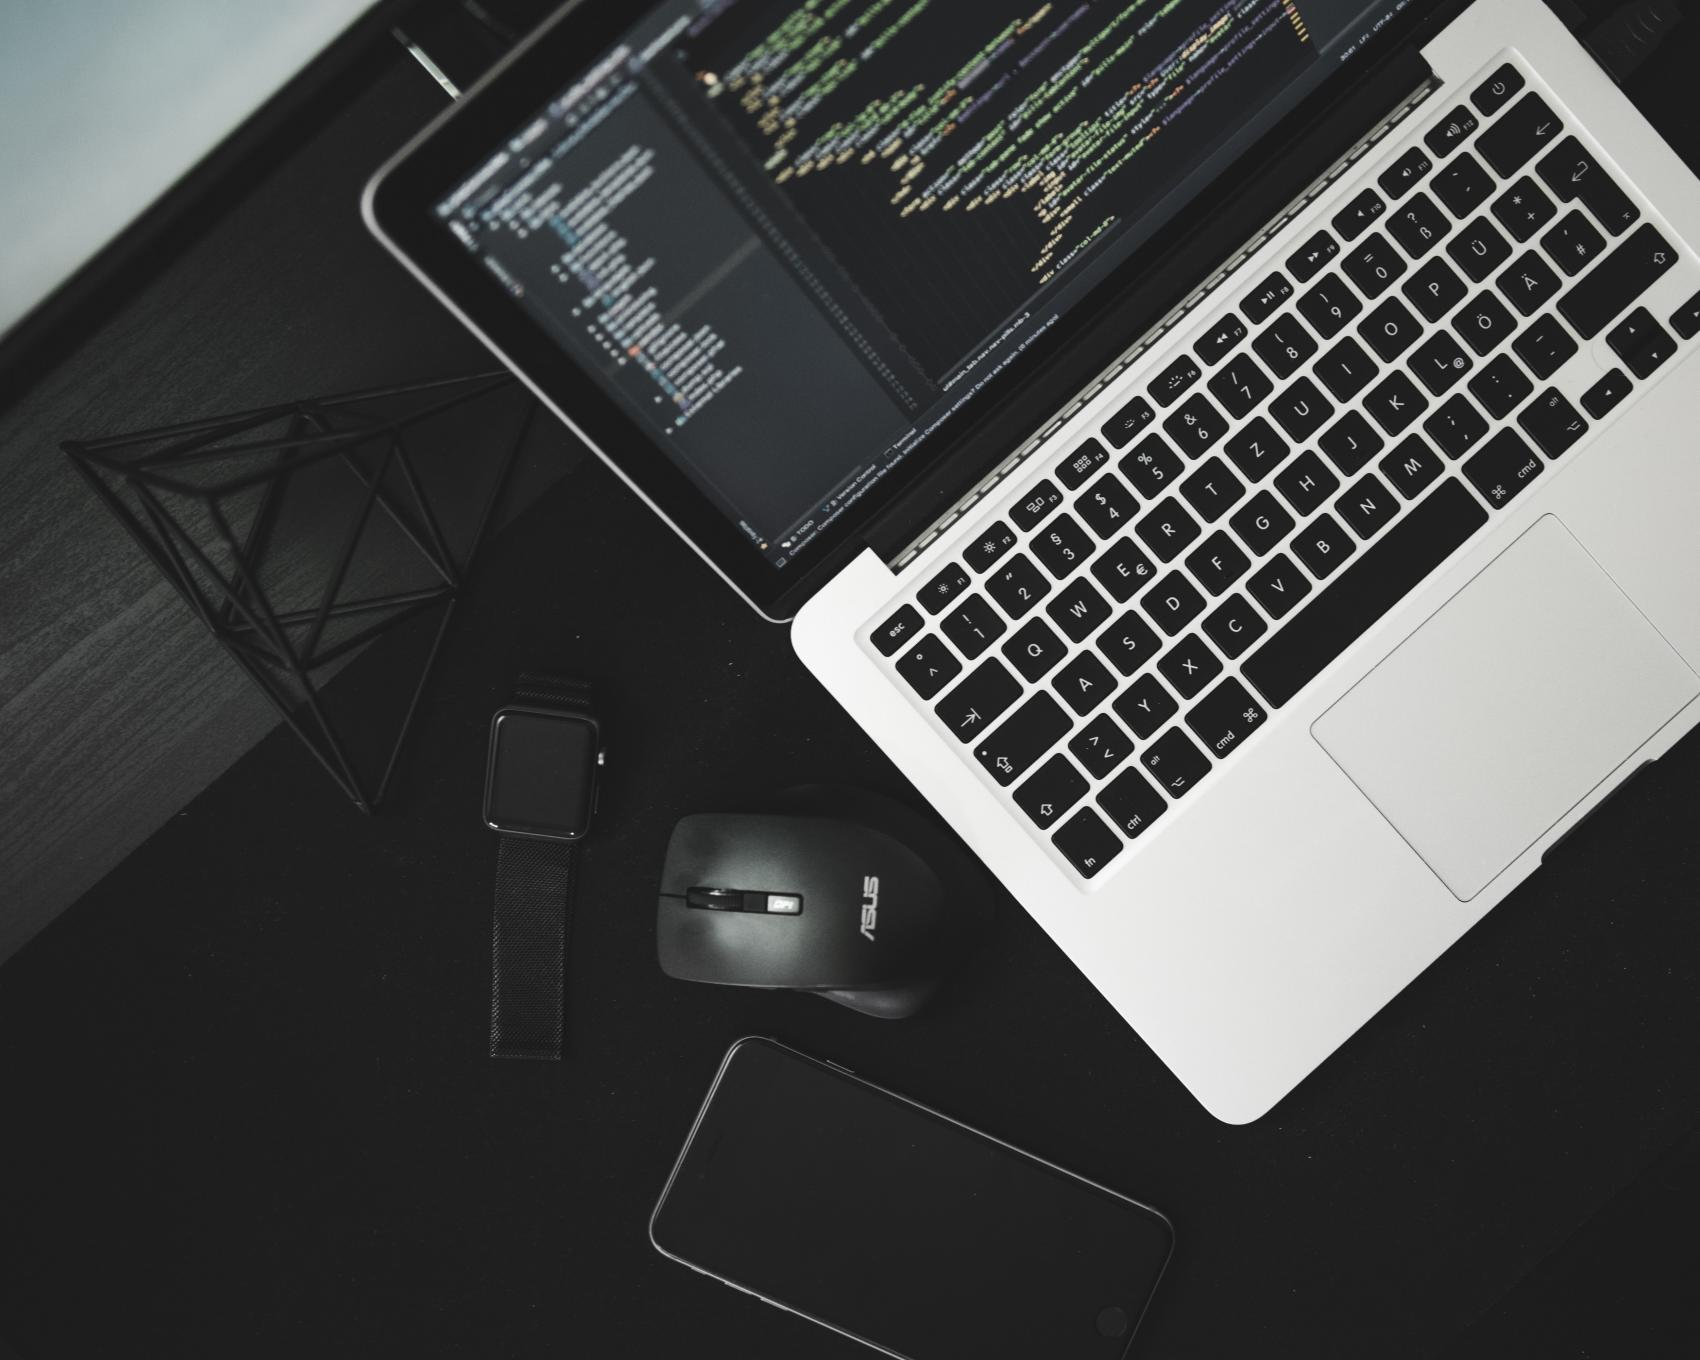
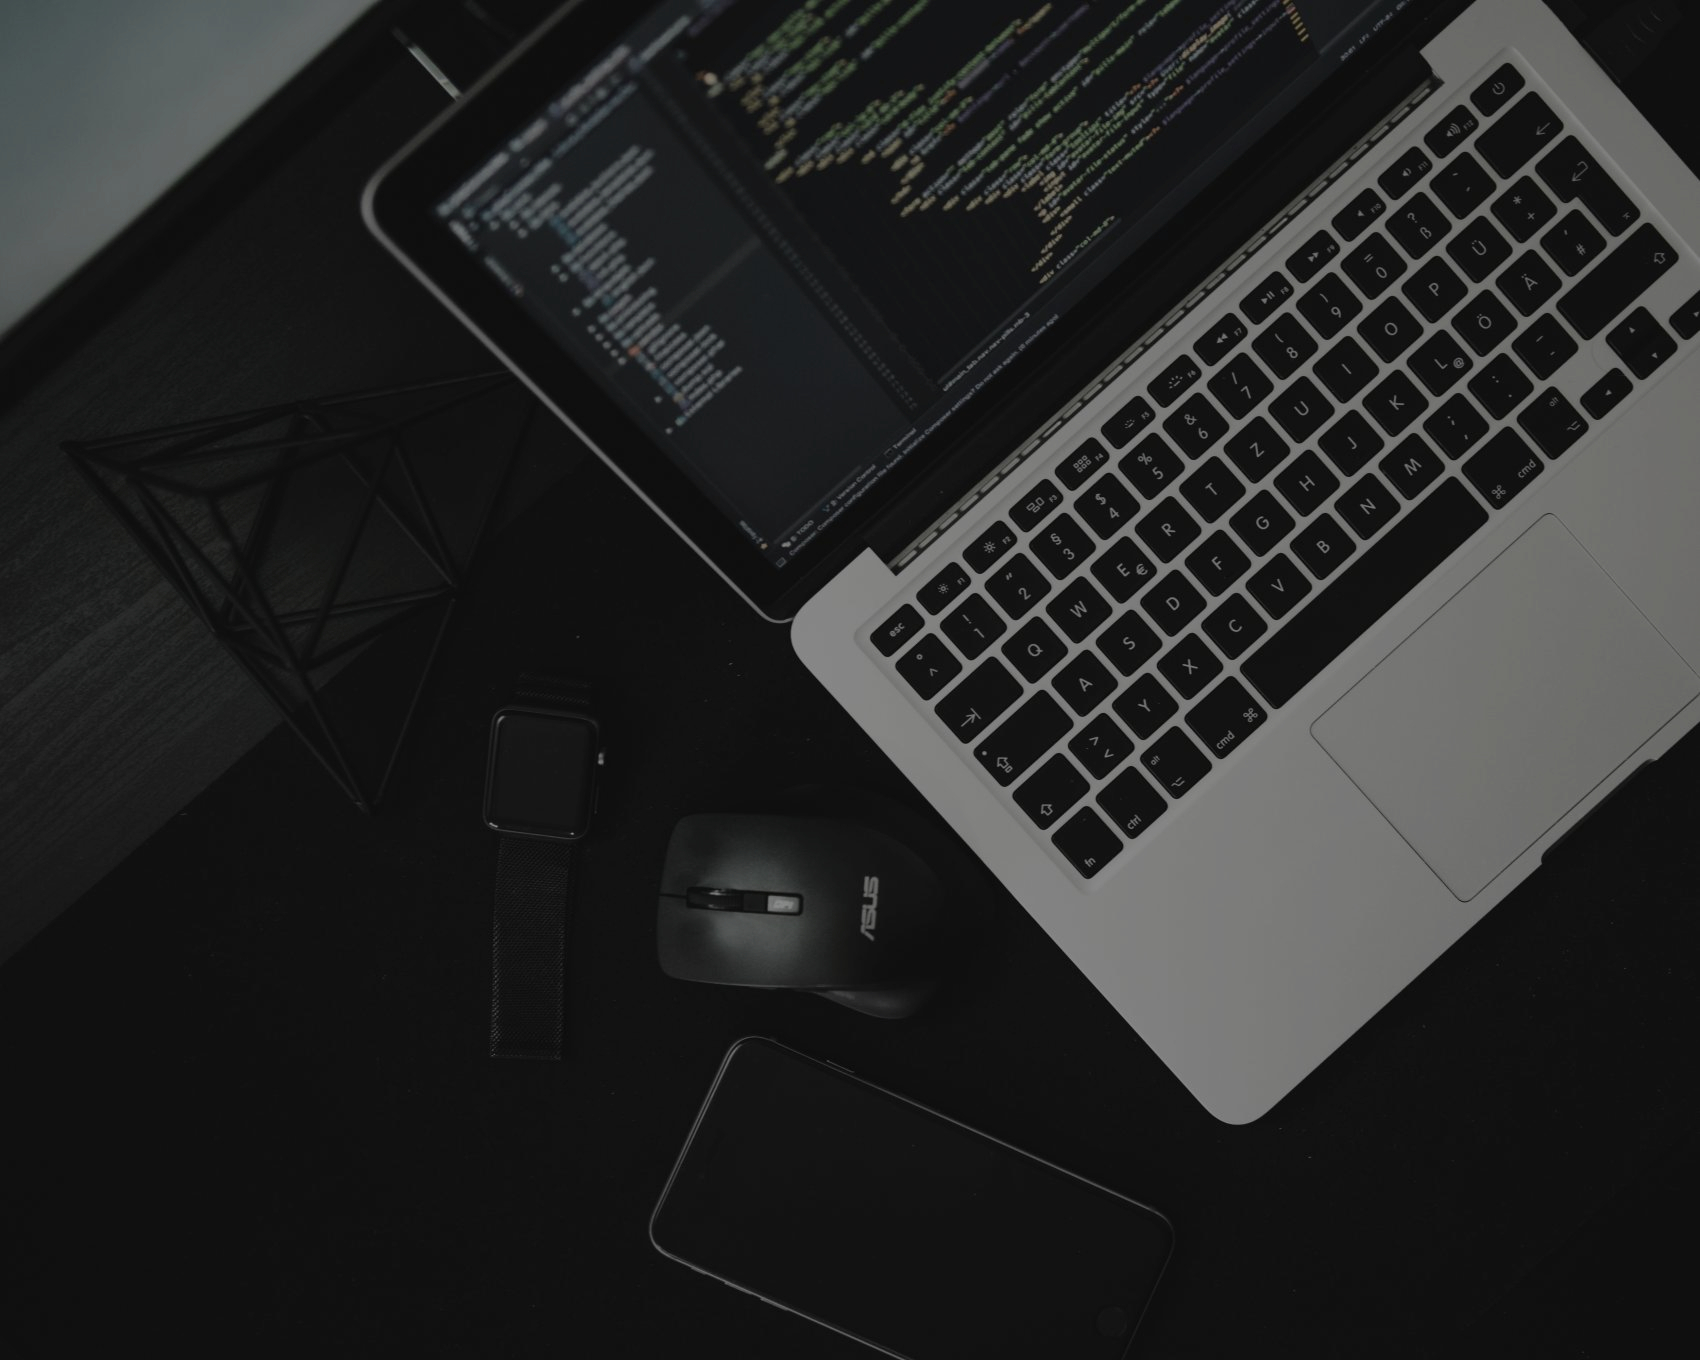
background image editing

diff --git a/src/components/ContactSection.vue b/src/components/ContactSection.vue
@@ -7,8 +7,8 @@
             <v-col cols="12" sm="5" class="v-margin-bottom">
               <h1 class="font-weight-light display-1">/ping my_contact</h1>
               <h3 class="font-weight-light mt-3">
-                Contact me and I will have the pleasure to further discuss any
-                related topics
+                Contact me and I will be glad to further discuss any related
+                topics
               </h3>
               <h3 class="font-weight-light mt-3">
                 <!-- Contate-nos via Whatsapp: -->
@@ -35,7 +35,7 @@
                 Linkedin</v-btn
               > -->
             </v-col>
-            <v-col cols="12" sm="7">
+            <!-- <v-col cols="12" sm="7">
               <v-form ref="form" v-model="valid" :lazy-validation="lazy">
                 <v-text-field
                   v-model="name"
@@ -70,7 +70,7 @@
                   Enviar
                 </v-btn>
               </v-form>
-            </v-col>
+            </v-col> -->
           </v-row>
         </v-col>
       </v-row>

diff --git a/src/components/Navigation.vue b/src/components/Navigation.vue
@@ -5,7 +5,7 @@
       app
       temporary
       dark
-      src="@/assets/img/bgDrawer.jpg"
+      src="@/assets/img/big_data1_vertical.jpg"
     >
       <!-- #!CHANGE
       <v-list>
@@ -105,7 +105,7 @@ export default {
       ["mdi-home-outline", "Home", "#hero"],
       ["mdi-information-outline", "About", "#about"],
       ["mdi-download-box-outline", "Projects", "#projects"],
-      ["mdi-currency-usd", "Experience", "#pricing"],
+      ["mdi-briefcase", "Experience", "#pricing"],
       ["mdi-email-outline", "Contact Me", "#contact"],
     ],
   }),
